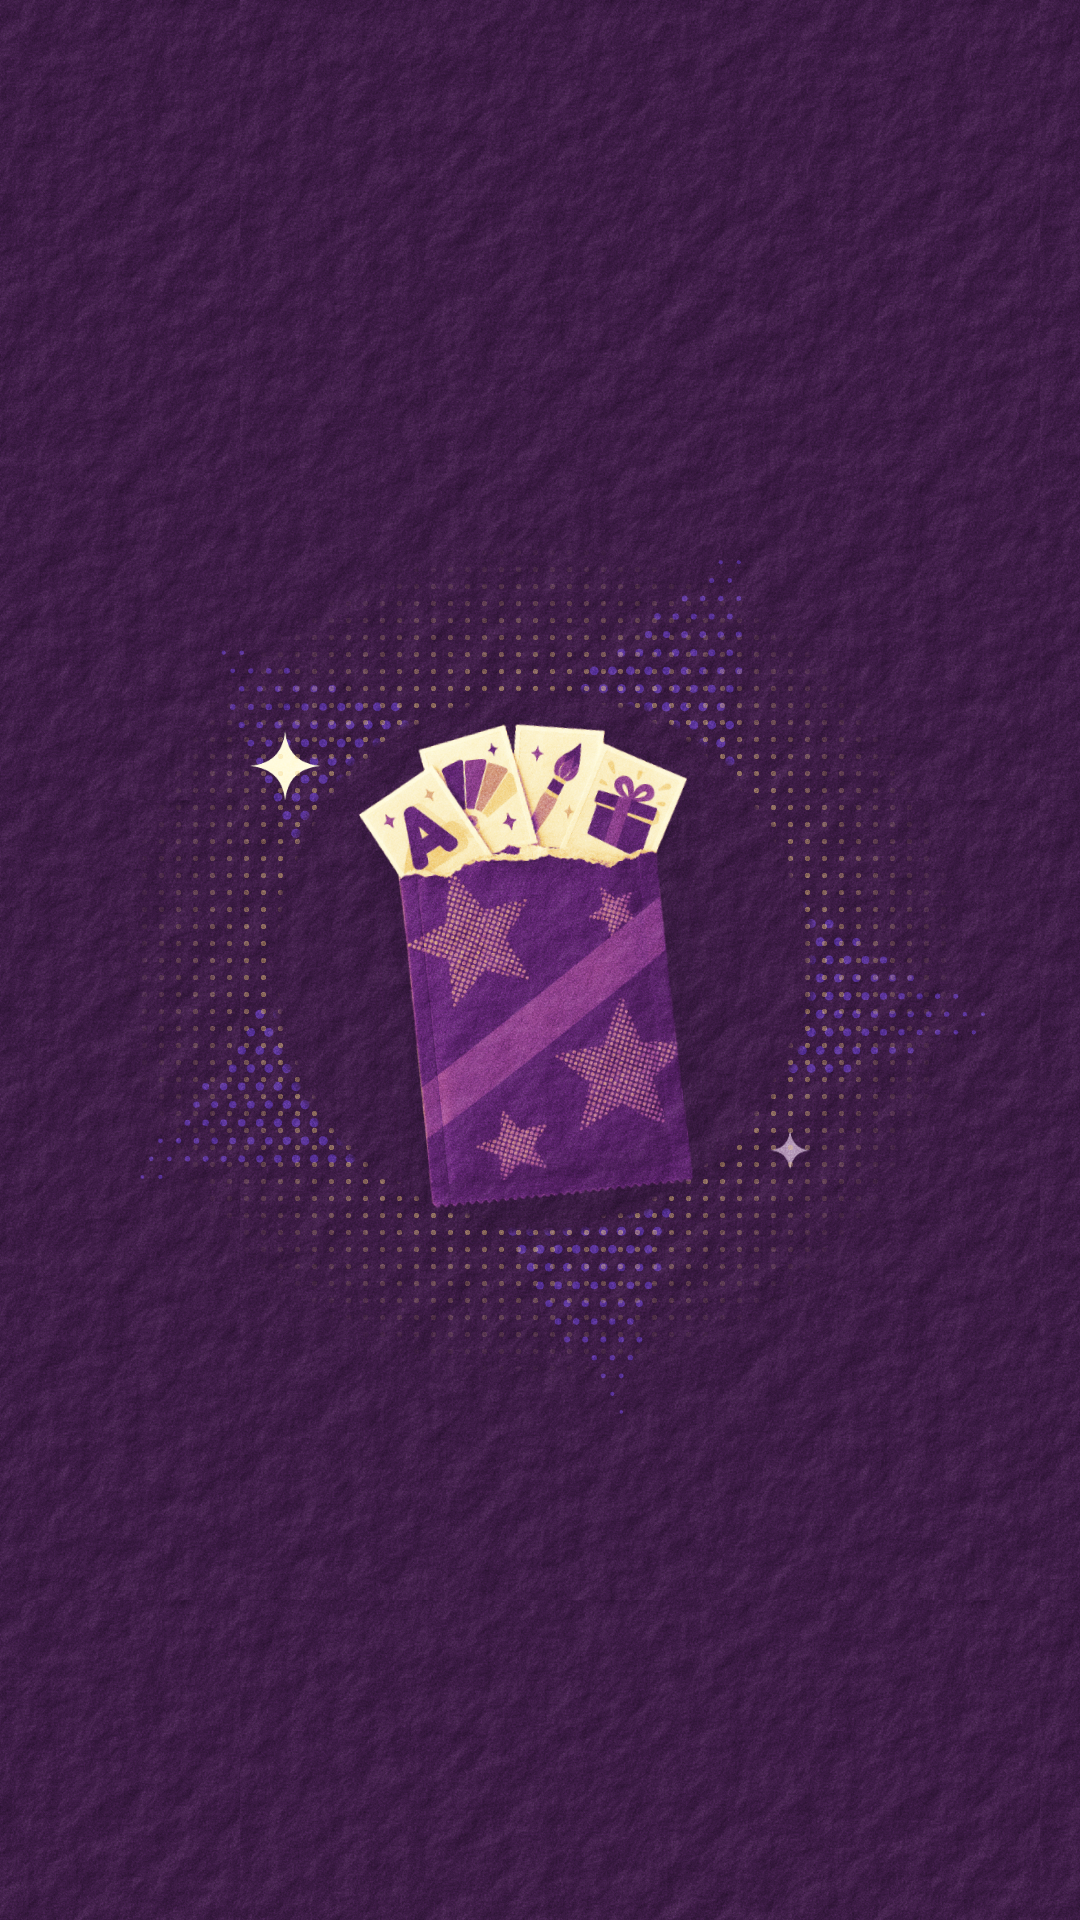
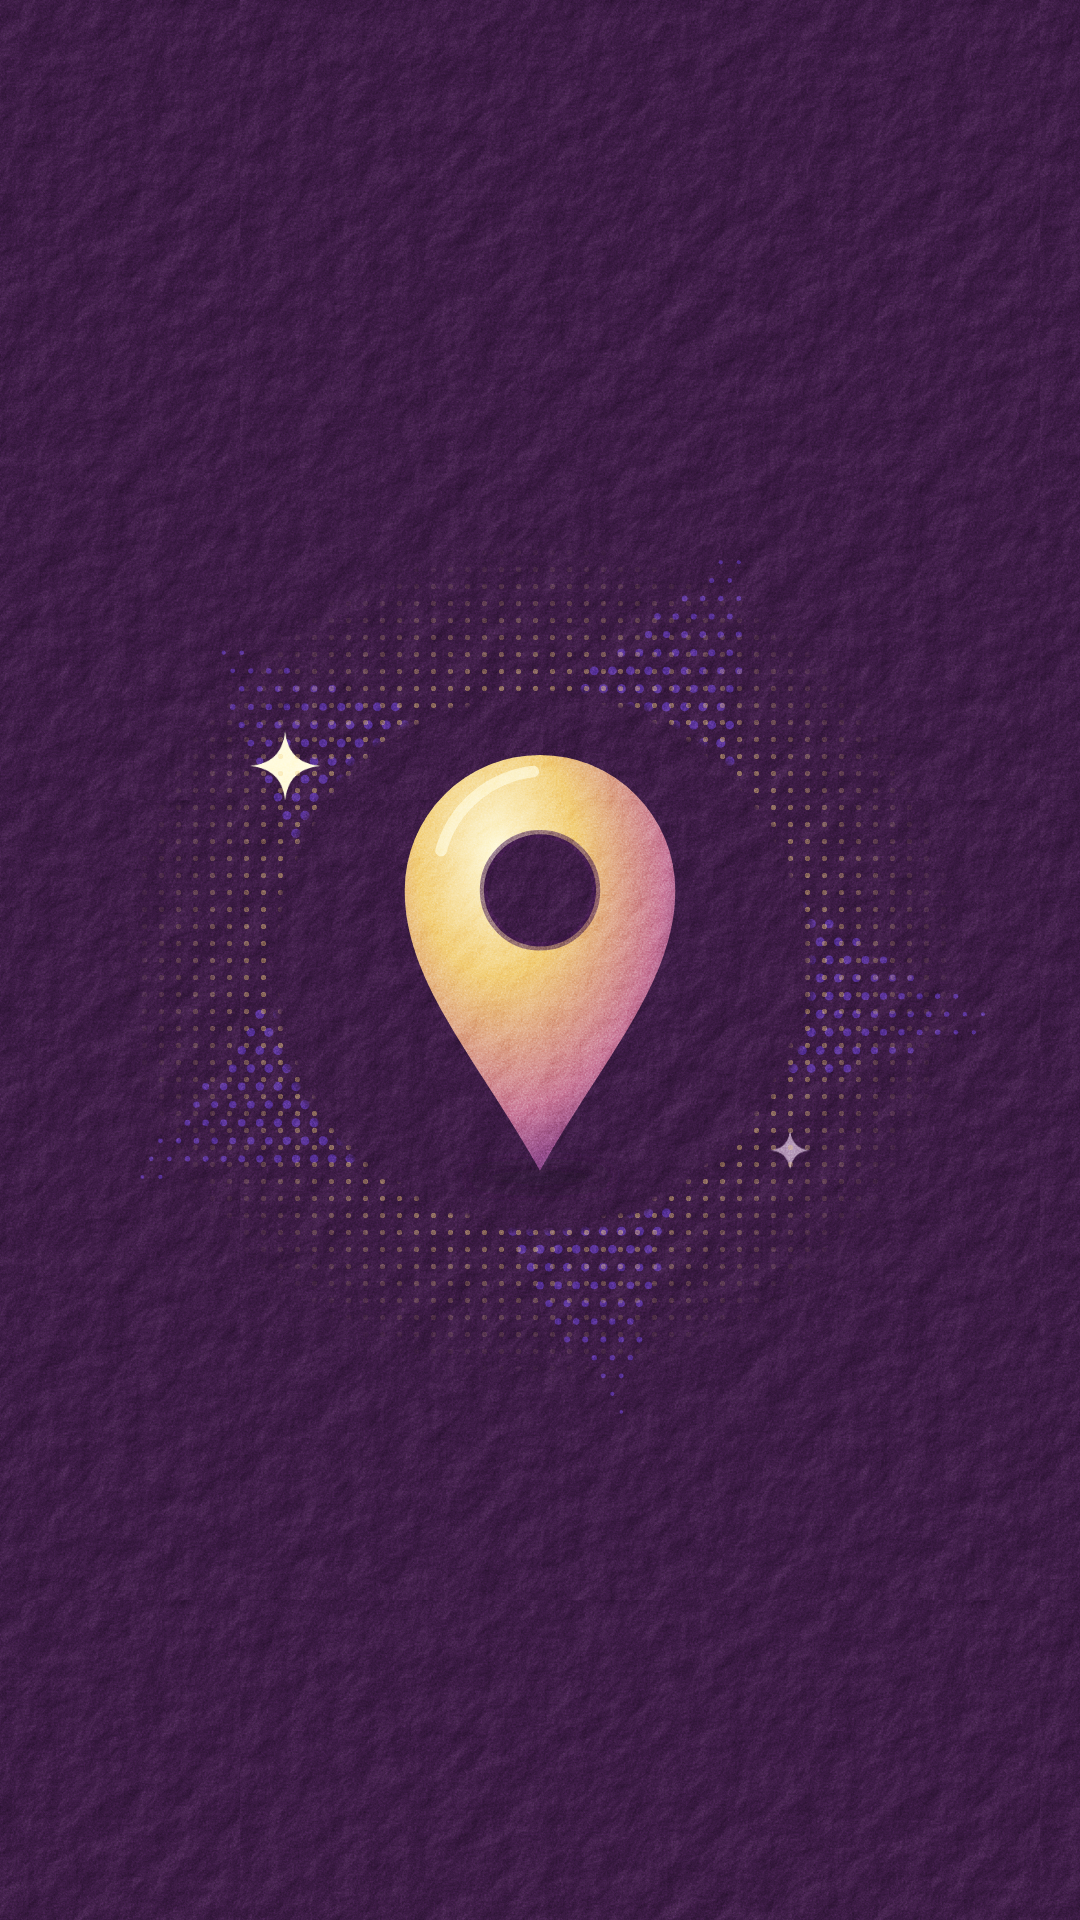
EMS destaques: pin de localização no 'done here' e bilhete no varal (foto CC0) no 'feedbacks'
Claude-Session: https://claude.ai/code/session_01CmCiK84raHTtZ6V144shua

Changed region(s): [[0.3361, 0.375, 0.6417, 0.625]]

diff --git a/Emi/ems-stories-servicos/projeto/destaque.html b/Emi/ems-stories-servicos/projeto/destaque.html
@@ -13,10 +13,11 @@
   .d .materia { background: radial-gradient(circle, rgba(242, 207, 122, .45) 2.4px, transparent 3px) 0 0 / 17px 17px; -webkit-mask: radial-gradient(circle at 50% 50%, transparent 0 262px, #000 272px, transparent 420px); mask: radial-gradient(circle at 50% 50%, transparent 0 262px, #000 272px, transparent 420px); }
   /* a estrela em retícula fica só em volta do astro, nunca por cima dele */
   .d svg.ht { -webkit-mask: radial-gradient(circle at 540px 960px, transparent 0 268px, #000 278px); mask: radial-gradient(circle at 540px 960px, transparent 0 268px, #000 278px); }
-  .nada svg.ht { -webkit-mask: radial-gradient(circle at 540px 960px, transparent 0 306px, #000 316px); mask: radial-gradient(circle at 540px 960px, transparent 0 306px, #000 316px); }
+  .larga svg.ht { -webkit-mask: radial-gradient(circle at 540px 960px, transparent 0 306px, #000 316px); mask: radial-gradient(circle at 540px 960px, transparent 0 306px, #000 316px); }
+  .d img.fotoq { position: absolute; z-index: -1; }
   .d img.obj { position: absolute; filter: drop-shadow(0 14px 18px rgba(42, 20, 51, .45)); }
   .d .selo { left: 365px; top: 721px; width: 350px; }
-  .nada .materia { -webkit-mask: radial-gradient(circle at 50% 50%, transparent 0 300px, #000 312px, transparent 420px); mask: radial-gradient(circle at 50% 50%, transparent 0 300px, #000 312px, transparent 420px); }
+  .larga .materia { -webkit-mask: radial-gradient(circle at 50% 50%, transparent 0 300px, #000 312px, transparent 420px); mask: radial-gradient(circle at 50% 50%, transparent 0 300px, #000 312px, transparent 420px); }
   .selo-d .materia { -webkit-mask: radial-gradient(circle at 50% 50%, transparent 0 250px, #000 262px, transparent 420px); mask: radial-gradient(circle at 50% 50%, transparent 0 250px, #000 262px, transparent 420px); }
 </style>
 </head>
@@ -38,10 +39,20 @@
   <i class="ic brilho g" style="left:268px;top:1120px;width:40px;height:40px;color:var(--lavanda);opacity:.9"></i>
   <i class="circ"></i>
 </section>
-<!-- done here: o pacotinho de figurinhas (os trabalhos prontos) -->
+<!-- done here: pin de localização ("feito aqui") -->
 <section class="story d" data-nome="done-here">
   <svg class="ht" data-star="540,960,470,violeta2,.5,26"></svg>
-  <img class="obj" src="objetos/pacotinho-manteiga.png" style="width:330px;left:375px;top:722px;transform:rotate(-6deg)" alt="">
+  <svg class="obj pino" viewBox="0 0 200 290" style="width:330px;left:375px;top:722px" xmlns="http://www.w3.org/2000/svg">
+    <defs>
+      <radialGradient id="pg" cx="34%" cy="24%" r="92%"><stop offset="0" stop-color="#fffbde"/><stop offset=".32" stop-color="#f2cf7a"/><stop offset=".68" stop-color="#c9799a"/><stop offset=".9" stop-color="#6d2c80"/><stop offset="1" stop-color="#4a1d58"/></radialGradient>
+      <radialGradient id="pf" cx="50%" cy="38%" r="60%"><stop offset=".55" stop-color="#2a1433" stop-opacity=".55"/><stop offset="1" stop-color="#2a1433" stop-opacity="0"/></radialGradient>
+      <filter id="pb" x="-50%" y="-200%" width="200%" height="500%"><feGaussianBlur stdDeviation="5"/></filter>
+    </defs>
+    <ellipse cx="100" cy="276" rx="44" ry="8" fill="#2a1433" opacity=".55" filter="url(#pb)"/>
+    <path fill="url(#pg)" fill-rule="evenodd" d="M100 272C62 204 18 158 18 102A82 82 0 1 1 182 102C182 158 138 204 100 272ZM100 68A34 34 0 1 0 100 136A34 34 0 1 0 100 68Z"/>
+    <circle cx="100" cy="102" r="34" fill="none" stroke="#4a1d58" stroke-width="5" opacity=".55"/>
+    <path d="M40 78A66 66 0 0 1 96 30" fill="none" stroke="#fffbde" stroke-width="7" stroke-linecap="round" opacity=".7"/>
+  </svg>
   <i class="ic brilho g" style="left:250px;top:730px;width:70px;height:70px;color:var(--ivory)"></i>
   <i class="ic brilho g" style="left:770px;top:1130px;width:40px;height:40px;color:var(--lavanda);opacity:.9"></i>
   <i class="circ"></i>
@@ -54,12 +65,12 @@
   <i class="ic brilho g" style="left:280px;top:1150px;width:40px;height:40px;color:var(--lavanda);opacity:.9"></i>
   <i class="circ"></i>
 </section>
-<!-- feedbacks: o presente (carinho de cliente) -->
-<section class="story d" data-nome="feedbacks">
+<!-- feedbacks: o bilhete no varal (foto real, CC0) -->
+<section class="story d larga" data-nome="feedbacks">
   <svg class="ht" data-star="540,960,470,violeta2,.5,-28"></svg>
-  <img class="obj" src="objetos/presente-manteiga.png" style="width:420px;left:330px;top:732px;transform:rotate(0deg)" alt="">
-  <i class="ic brilho g" style="left:770px;top:1110px;width:70px;height:70px;color:var(--ivory)"></i>
-  <i class="ic brilho g" style="left:262px;top:760px;width:40px;height:40px;color:var(--lavanda);opacity:.9"></i>
+  <img class="fotoq" src="objetos/bilhete.jpg" style="left:175px;top:595px;width:730px" alt="">
+  <i class="ic brilho g" style="left:812px;top:1150px;width:70px;height:70px;color:var(--ivory)"></i>
+  <i class="ic brilho g" style="left:236px;top:1140px;width:40px;height:40px;color:var(--lavanda);opacity:.9"></i>
   <i class="circ"></i>
 </section>
 <!-- made by me: o pincel -->
